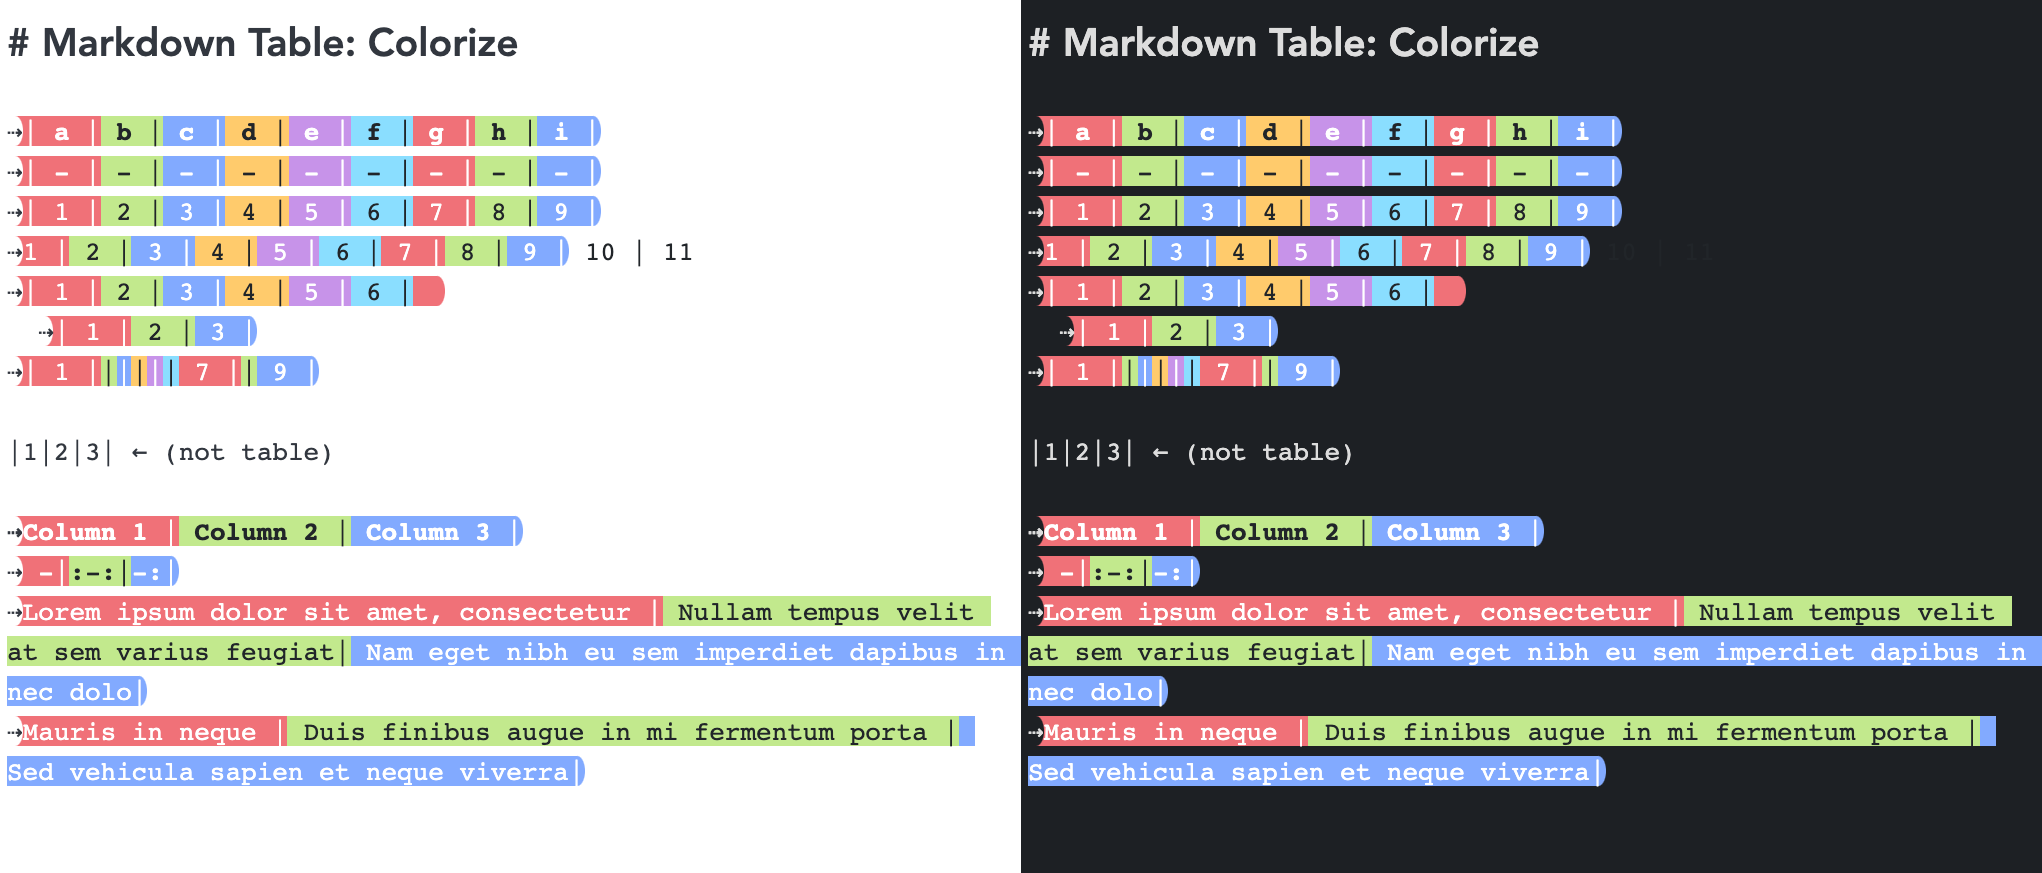
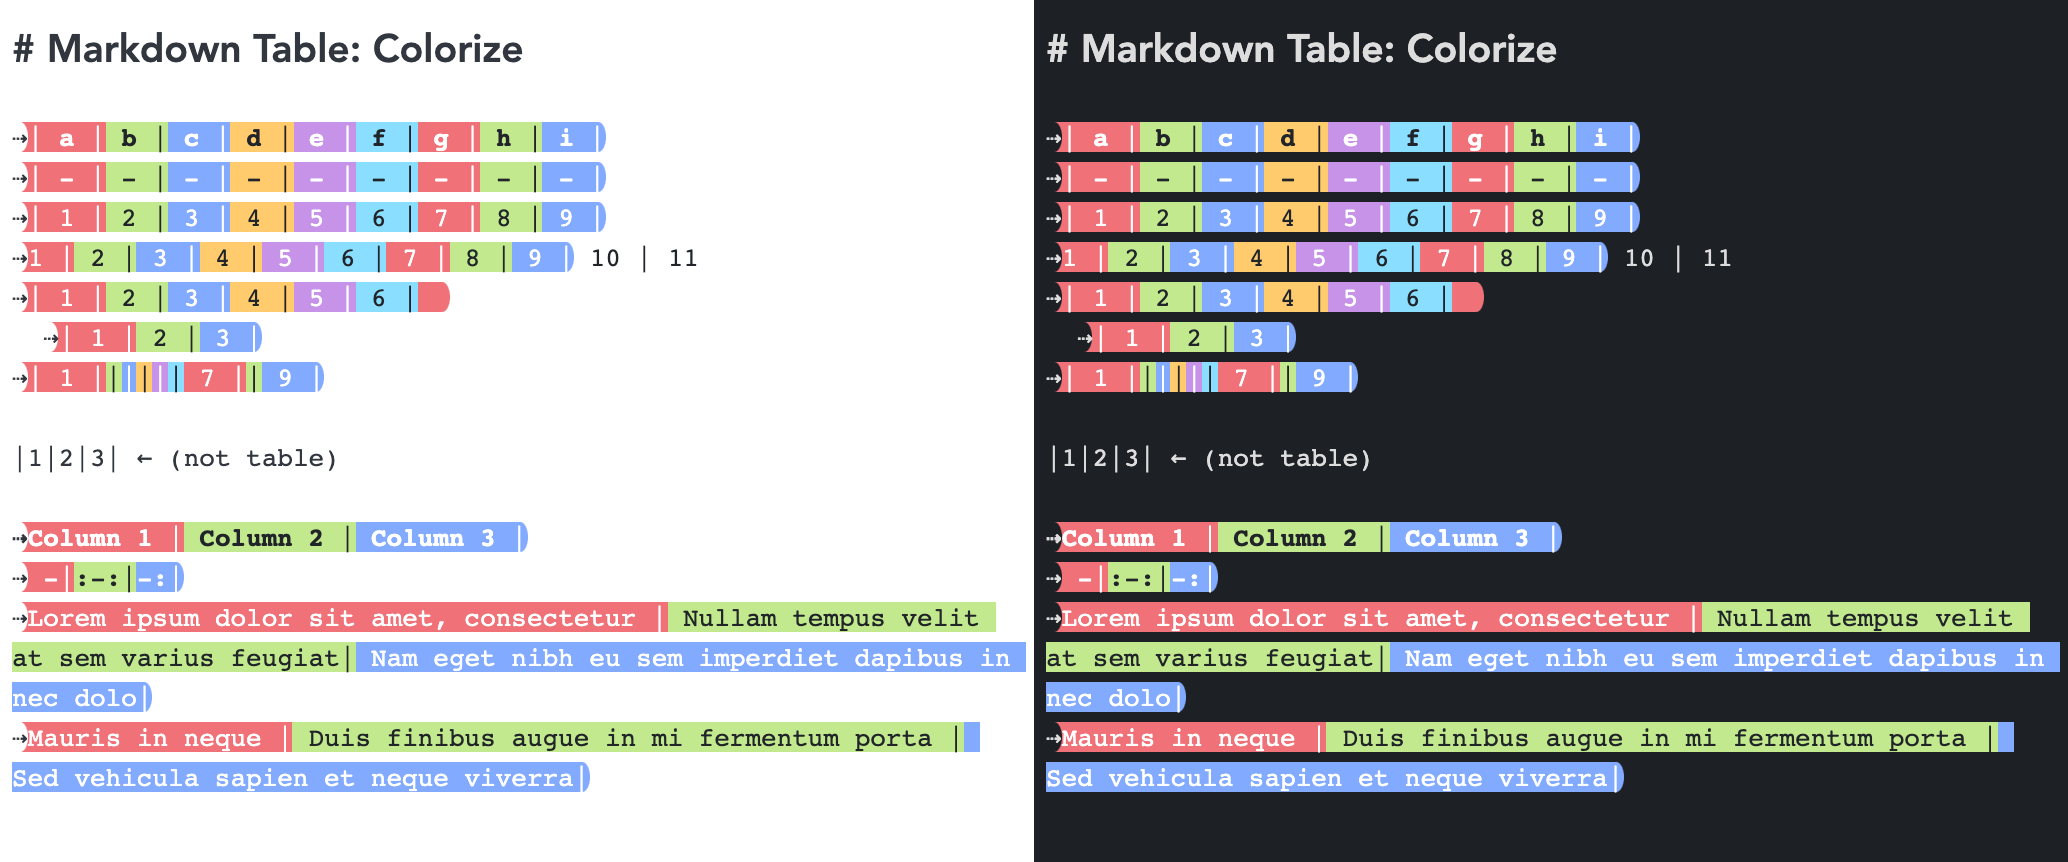
Quick fix

diff --git a/src/tabcolor.css b/src/tabcolor.css
@@ -1,22 +1,27 @@
 .cm-tabcolor-row {
-	color: #212529;
+	color: var(--joplin-color);
 }
 .cm-tabcolor-header {
 	font-weight: bolder;
-	color: #212529;
+	color: var(--joplin-color);
 }
 .cm-tabcolor-col1, .cm-tabcolor-col6 {
 	background-color: #FFCDD2;
+	color: #212529;
 }
 .cm-tabcolor-col2, .cm-tabcolor-col7 {
 	background-color: #FFE0B2;
+	color: #212529;
 }
 .cm-tabcolor-col3, .cm-tabcolor-col8 {
 	background-color: #BBDEFB;
+	color: #212529;
 }
 .cm-tabcolor-col4, .cm-tabcolor-col9 {
 	background-color: #C8E6C9;
+	color: #212529;
 }
 .cm-tabcolor-col5, .cm-tabcolor-col10 {
 	background-color: #C5CAE9;
+	color: #212529;
 }
